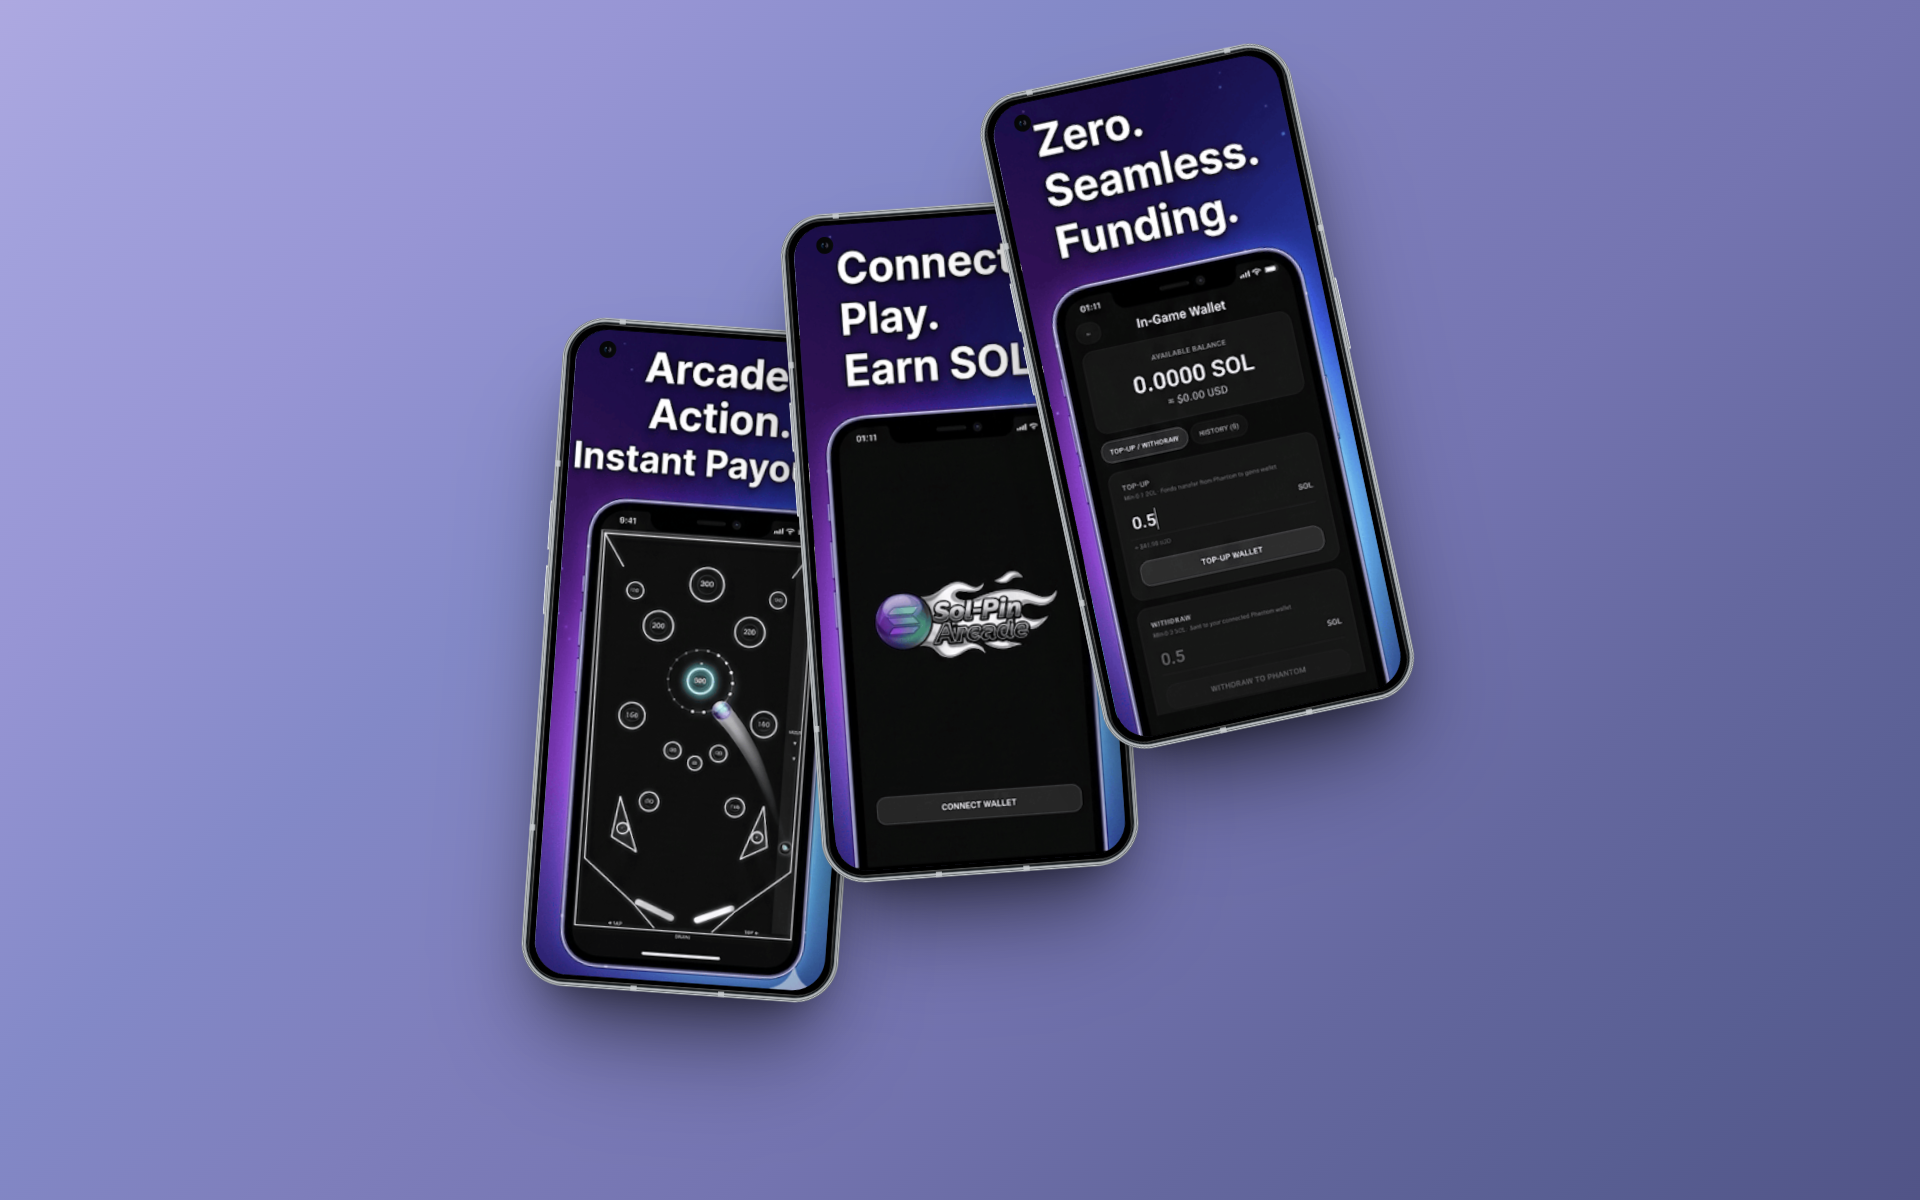
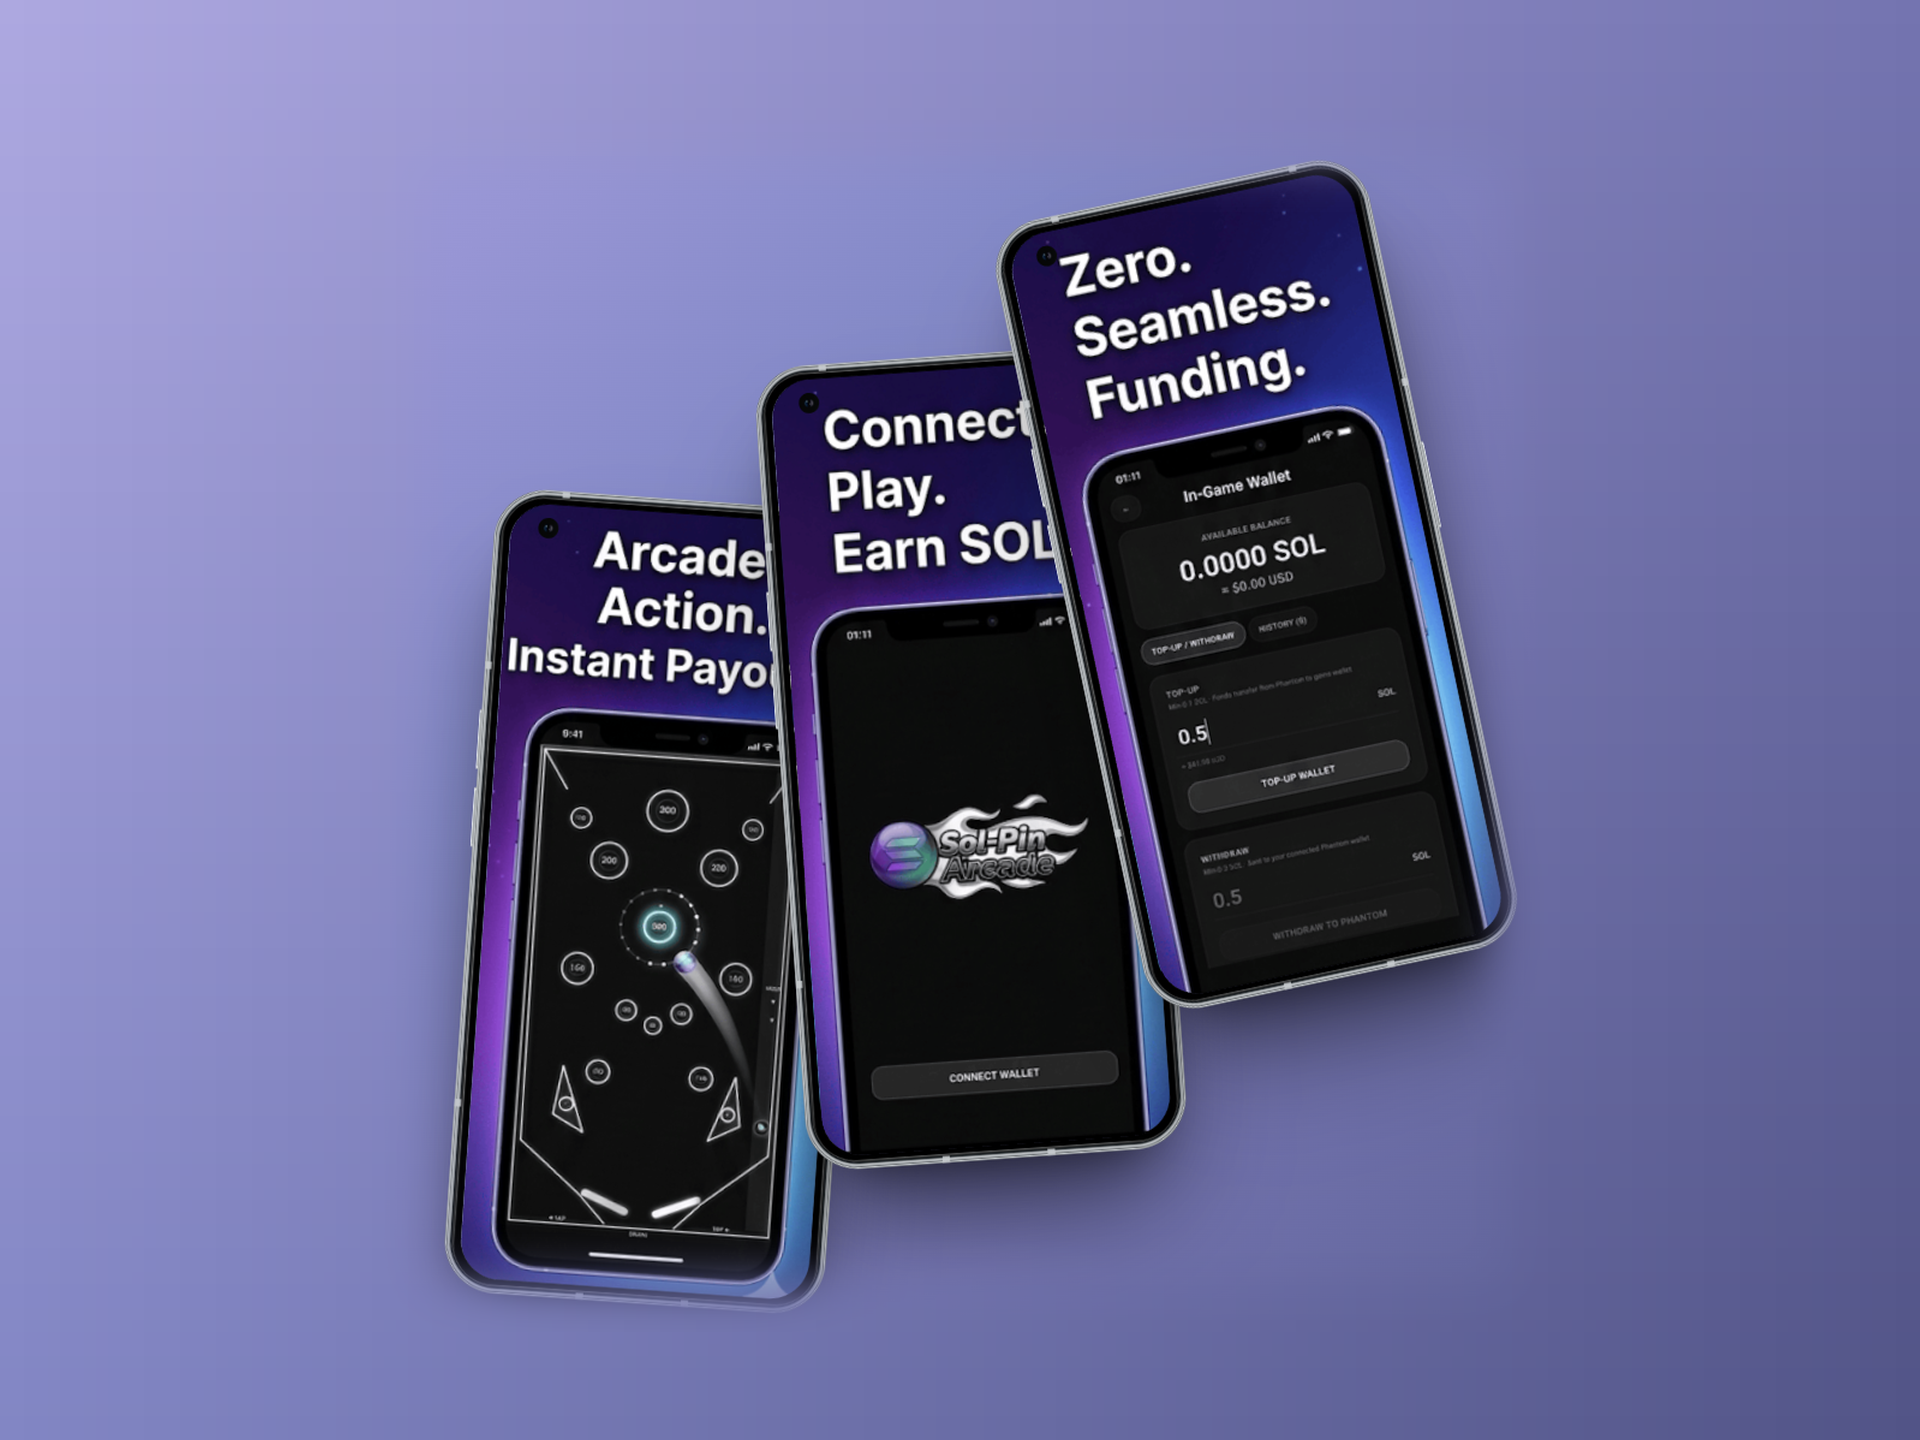
added projects in mobile

Changed region(s): [[0.2188, 0.0308, 0.8125, 0.925]]

diff --git a/src/App.tsx b/src/App.tsx
@@ -348,7 +348,7 @@ export function App() {
       title: "Luna AI",
       category: "mobile" as const,
       description:
-        "An unfiltered AI companion chatbot built with React Native and Expo. Powered by OpenAI for natural conversation, with Firebase for accounts and Solana Mobile Wallet Adapter for in-app crypto payments. Shipped to Android and live on the Solana dApp Store.",
+        "An unfiltered AI companion chatbot built with React Native and Expo. Powered by OpenAI for natural conversation, with Firebase for accounts and Solana Mobile Wallet Adapter for in-app crypto payments.",
       tech: ["React Native", "Expo", "TypeScript", "OpenAI", "Solana", "Firebase"],
       roles: [{ name: "Mobile", type: "mobile" }] as const,
       githubUrl: "https://github.com/qzMalekuz/luna-ai-unfiltered-ai-companion",
@@ -360,7 +360,7 @@ export function App() {
       title: "Solana - Near Me",
       category: "mobile" as const,
       description:
-        "A React Native + Expo mobile dApp that helps you discover crypto-accepting merchants on an interactive map and pay them in SOL or USDC via Solana Pay and the Mobile Wallet Adapter. Features live exchange rates, 1% SOL cashback, and NFT reward badges. Live on the Solana dApp Store.",
+        "A React Native + Expo mobile dApp that helps you discover crypto-accepting merchants on an interactive map and pay them in SOL or USDC via Solana Pay and the Mobile Wallet Adapter. Features live exchange rates, 1% SOL cashback, and NFT reward badges.",
       tech: ["React Native", "Expo", "TypeScript", "Solana", "Firebase"],
       roles: [{ name: "Mobile", type: "mobile" }] as const,
       githubUrl: "https://github.com/qzMalekuz/solana-near-me",
@@ -376,10 +376,11 @@ export function App() {
       tech: ["React Native", "Expo", "TypeScript", "Solana", "Matter.js"],
       roles: [{ name: "Full Stack", type: "dev" }] as const,
       githubUrl: "https://github.com/qzMalekuz/SolPin-Arcade",
-      liveUrl: undefined as string | undefined,
-      downloadApkUrl: "https://github.com/qzMalekuz/SolPin-Arcade/releases/download/v2.0/Sol-Pin.Arcade.apk",
+      statusLabel: "Live on Solana dApp Store",
+      // Banner is a 4:3 (1920×1440) image framed exactly like the other mobile
+      // banners (Near Me, Luna), so it uses the same default `cover` fit and
+      // renders through the identical code path — keeping the framing consistent.
       image: solPinBanner,
-      imageFit: "contain" as const,
       screenshots: [
         {
           src: screenshot1,
@@ -502,7 +503,7 @@ export function App() {
     <div className="app-shell min-h-screen bg-(--bg-primary) text-(--text-primary) selection:bg-(--text-primary) selection:text-(--bg-primary) font-sans overflow-x-hidden">
       <PremiumBackground />
 
-      <nav className="fixed bottom-4 left-1/2 z-50 -translate-x-1/2 md:top-1/2 md:right-6 md:bottom-auto md:left-auto md:translate-x-0 md:-translate-y-1/2 lg:right-8">
+      <nav className="floating-nav fixed bottom-4 left-1/2 z-50 -translate-x-1/2 md:top-1/2 md:right-6 md:bottom-auto md:left-auto md:translate-x-0 md:-translate-y-1/2 lg:right-8">
         <FloatingToolbar
           items={[
             ...menuItems.map((item) => ({
@@ -534,7 +535,7 @@ export function App() {
       </nav>
 
       {currentPath === "/about" ? (
-        <main className="relative z-10 mx-auto min-h-[80vh] max-w-5xl space-y-10 px-5 py-16 pb-24 transition-all sm:px-8 sm:py-20 md:px-12 md:pr-24 lg:px-16 lg:pr-28">
+        <main className="relative z-10 mx-auto min-h-[80dvh] max-w-5xl space-y-10 px-5 py-16 pb-24 transition-all sm:px-8 sm:py-20 md:px-12 md:pr-24 lg:px-16 lg:pr-28">
           <div className="animate-in fade-in duration-300 slide-in-from-bottom-4 space-y-12">
             <AboutSection />
             <SectionRow title="Technologies">
@@ -570,7 +571,7 @@ export function App() {
         currentPath !== "" &&
         !currentPath.includes("#") &&
         projects.find((p) => p.id === currentPath.slice(1)) ? (
-        <main className="relative z-10 mx-auto min-h-[80vh] max-w-5xl space-y-10 px-5 py-16 pb-24 transition-all sm:px-8 sm:py-20 md:px-12 md:pr-24 lg:px-16 lg:pr-28">
+        <main className="relative z-10 mx-auto min-h-[80dvh] max-w-5xl space-y-10 px-5 py-16 pb-24 transition-all sm:px-8 sm:py-20 md:px-12 md:pr-24 lg:px-16 lg:pr-28">
           {(() => {
             const project = projects.find(
               (p) => p.id === currentPath.slice(1),
@@ -579,7 +580,7 @@ export function App() {
               <div className="animate-in fade-in duration-300 slide-in-from-bottom-4">
                 <SectionMinimal title="Project Details">
                   <div className="mb-6 flex flex-wrap items-center justify-between gap-4 pl-1 sm:flex-nowrap">
-                    <h1 className="text-3xl font-bold text-(--text-primary) tracking-tight">
+                    <h1 className="min-w-0 text-2xl font-bold text-(--text-primary) tracking-tight sm:text-3xl">
                       {project.title}
                     </h1>
                     <div className="flex shrink-0 flex-wrap gap-3">
@@ -591,16 +592,6 @@ export function App() {
                           className="inline-flex items-center justify-center gap-2 px-3 py-1.5 text-[12px] font-medium bg-(--text-primary) text-(--bg-primary) rounded-lg hover:bg-(--text-secondary) transition-colors focus-visible:outline-none focus-visible:ring-2 focus-visible:ring-(--text-muted)"
                         >
                           Visit Website <ExternalLinkIcon />
-                        </a>
-                      )}
-                      {project.id === "solpin-arcade" && "downloadApkUrl" in project && (
-                        <a
-                          href={project.downloadApkUrl as string}
-                          target="_blank"
-                          rel="noopener noreferrer"
-                          className="inline-flex items-center justify-center gap-2 px-3 py-1.5 text-[12px] font-medium bg-(--text-primary) text-(--bg-primary) rounded-lg hover:bg-(--text-secondary) transition-colors focus-visible:outline-none focus-visible:ring-2 focus-visible:ring-(--text-muted)"
-                        >
-                          Install APK <DownloadIcon />
                         </a>
                       )}
                       {project.githubUrl && (
@@ -806,7 +797,7 @@ export function App() {
           })()}
         </main>
       ) : (
-        <main className="relative z-10 mx-auto min-h-[80vh] max-w-5xl space-y-16 px-5 py-16 pb-24 transition-all sm:px-8 sm:py-20 md:px-12 lg:px-16">
+        <main className="relative z-10 mx-auto min-h-[80dvh] max-w-5xl space-y-16 px-5 py-16 pb-24 transition-all sm:px-8 sm:py-20 md:px-12 lg:px-16">
           <header id="home" className="scroll-mt-24">
             <div className="flex flex-col gap-10 lg:flex-row lg:items-center lg:justify-between lg:gap-8">
             <div className="flex flex-col">
@@ -1139,22 +1130,28 @@ export function App() {
 
       {activeResume && (
         <div
-          className="fixed inset-0 z-50 flex items-center justify-center p-4 sm:p-6 bg-black/70 backdrop-blur-sm"
+          className="fixed inset-0 z-50 flex items-center justify-center p-3 sm:p-6 bg-black/70 backdrop-blur-sm"
           onClick={() => setActiveResume(null)}
           role="dialog"
           aria-modal="true"
           aria-label="Resume preview"
+          style={{
+            // Keep the modal clear of the notch/home-bar so the close button and
+            // PDF are always reachable on phones. No-op on devices with no inset.
+            paddingTop: "max(0.75rem, env(safe-area-inset-top, 0px))",
+            paddingBottom: "max(0.75rem, env(safe-area-inset-bottom, 0px))",
+          }}
         >
           <div
-            className="relative w-full max-w-4xl h-[90vh] rounded-2xl border border-(--border-color) bg-(--bg-secondary) shadow-2xl flex flex-col overflow-hidden"
+            className="relative flex w-full max-w-4xl flex-col overflow-hidden rounded-2xl border border-(--border-color) bg-(--bg-secondary) shadow-2xl h-dvh max-h-full sm:h-[90dvh]"
             onClick={(e) => e.stopPropagation()}
           >
-            <div className="flex items-center justify-between px-4 py-3 border-b border-(--border-color)">
-              <div className="flex items-center gap-2 text-[13px] font-medium text-(--text-primary)">
+            <div className="flex items-center justify-between gap-2 px-4 py-3 border-b border-(--border-color)">
+              <div className="flex min-w-0 items-center gap-2 text-[13px] font-medium text-(--text-primary)">
                 <FileTextIcon />
-                <span>{resumes[activeResume].label}</span>
+                <span className="truncate">{resumes[activeResume].label}</span>
               </div>
-              <div className="flex items-center gap-2">
+              <div className="flex shrink-0 items-center gap-2">
                 <a
                   href={resumes[activeResume].pdf}
                   download={resumes[activeResume].downloadName}

diff --git a/src/index.css b/src/index.css
@@ -111,19 +111,68 @@
 
 html {
   background: var(--bg-primary);
+  /* Stop iOS/Android from auto-inflating font sizes on rotation, which throws
+     off the carefully tuned type scale on landscape phones. */
+  -webkit-text-size-adjust: 100%;
+  text-size-adjust: 100%;
 }
 
 body {
   font-family: 'Geist', 'Inter', sans-serif;
   letter-spacing: -0.01em;
   -webkit-font-smoothing: antialiased;
-  background-color: var(--bg-primary); 
+  background-color: var(--bg-primary);
   color: var(--text-primary);
+  /* Never allow a stray wide element (long URL, image, badge row) to introduce a
+     horizontal scrollbar on small screens. */
+  overflow-x: hidden;
+  /* Remove the grey tap flash on touch devices for a native-app feel. */
+  -webkit-tap-highlight-color: transparent;
+}
+
+/* Any long, unbreakable token (email, repo URL) wraps instead of forcing the
+   page wider than the viewport on 320px-class phones. */
+a,
+p,
+span,
+h1,
+h2,
+h3 {
+  overflow-wrap: break-word;
 }
 
 .app-shell {
   position: relative;
   isolation: isolate;
+  /* Use the dynamic viewport unit so the shell tracks the *visible* height as
+     mobile browser chrome (URL bar) expands/collapses — `100vh` is the largest
+     possible height and leaves a gap / hides the footer on iOS Safari & Android
+     Chrome. min-h-screen (the Tailwind class on .app-shell) is the 100vh
+     fallback for browsers without dvh support; this rule wins where supported. */
+  min-height: 100svh;
+  min-height: 100dvh;
+}
+
+/* Safe-area helpers for notched / gesture-bar devices (iPhone X+, modern
+   Android). Applied to the fixed floating nav and the footer so neither hides
+   under the home indicator. `viewport-fit=cover` in the meta tag activates env(). */
+.safe-bottom {
+  padding-bottom: env(safe-area-inset-bottom, 0px);
+}
+
+.pb-safe {
+  padding-bottom: calc(7rem + env(safe-area-inset-bottom, 0px));
+}
+
+/* On phones the floating nav docks to the bottom-center. Lift it above the home
+   indicator / gesture bar. Scoped below the `md` breakpoint (768px) so it never
+   touches the tablet/desktop layout, where the nav is vertically centered on the
+   right edge (md:bottom-auto). max() keeps the original 1rem gap on devices with
+   no inset. */
+@media (max-width: 767px) {
+  .floating-nav {
+    bottom: max(1rem, calc(env(safe-area-inset-bottom, 0px) + 0.5rem));
+  }
 }
 
 .premium-background {

diff --git a/src/index.html b/src/index.html
@@ -2,7 +2,7 @@
 <html lang="en" class="dark">
   <head>
     <meta charset="UTF-8" />
-    <meta name="viewport" content="width=device-width, initial-scale=1.0" />
+    <meta name="viewport" content="width=device-width, initial-scale=1.0, viewport-fit=cover" />
     <meta name="description" content="zafarr. (qzmalekuz) — Open Source Contributor, Full-Stack Developer. Building real-time systems, Web3 experiences, and production-grade applications." />
     <meta name="author" content="zafarr." />
     <meta name="keywords" content="zafarr, qzmalekuz, Full Stack Developer, Open Source, React, TypeScript, Solana, WebSockets, Portfolio" />

diff --git a/src/components/layout/Footer.tsx b/src/components/layout/Footer.tsx
@@ -1,7 +1,7 @@
 import React from "react";
 
 export const Footer = () => (
-  <footer className="mx-auto w-full max-w-5xl px-5 pb-28 sm:px-8 md:px-12 md:pr-24 lg:px-16 lg:pr-28">
+  <footer className="safe-bottom mx-auto w-full max-w-5xl px-5 pb-28 sm:px-8 md:px-12 md:pr-24 lg:px-16 lg:pr-28">
     <div className="pt-12 flex flex-col items-center gap-6 border-t border-(--border-color)">
       <div className="flex flex-wrap items-center justify-center gap-4 text-xs text-(--text-muted) sm:gap-6">
         <a href="mailto:zafarrworks@gmail.com" className="hover:text-(--text-primary) transition-colors hover-wavy">Email</a>
